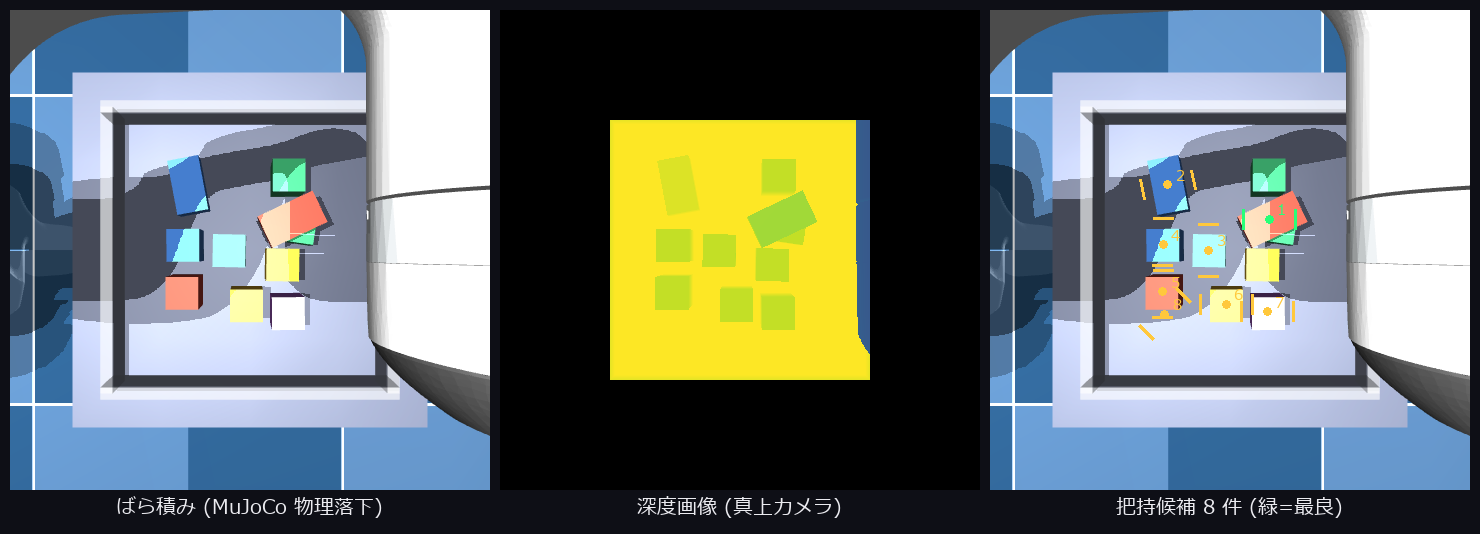
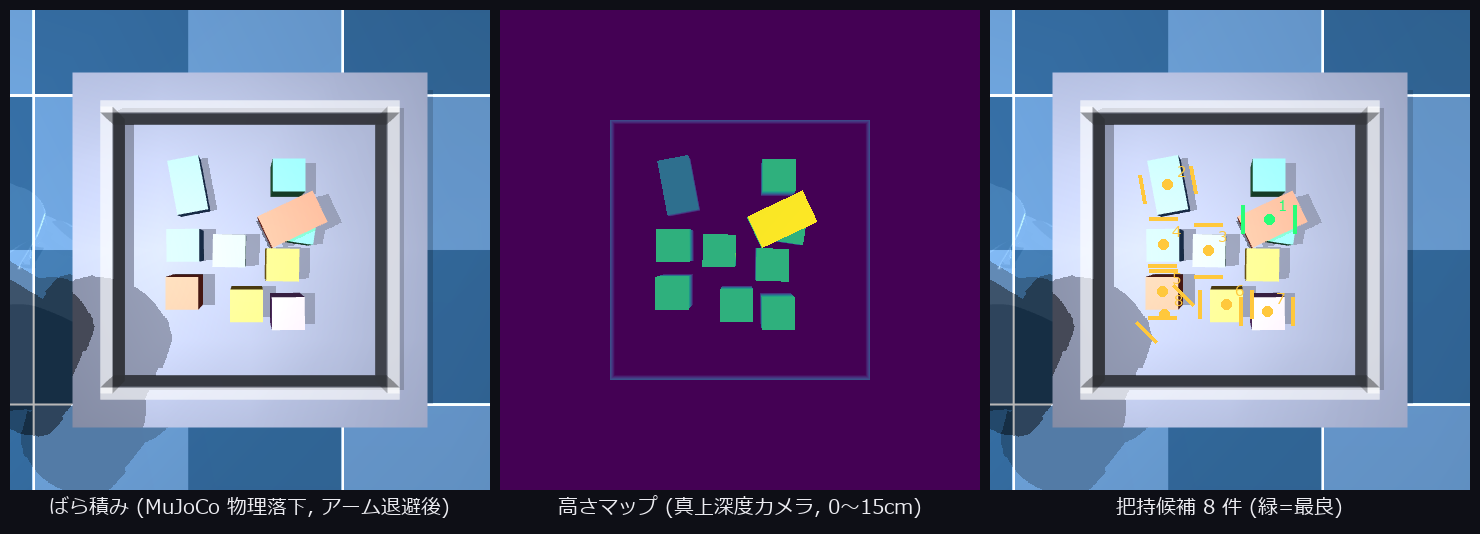
auto: gen_industrial_gallery.py 編集前 (2026-08-30 16:37)

diff --git a/tools/gen_industrial_gallery.py b/tools/gen_industrial_gallery.py
@@ -701,8 +701,8 @@ def subject_binpick_depth(log=print) -> dict:
     height = np.where(inner > 0.5, np.clip(d_table - depth, 0.0, 0.15) / 0.15,
                       0.0)
     panels = [rgb, fs.colorize_depth(height), _np_of(vis)]
-    out = _montage(panels, ["ばら積み (MuJoCo 物理落下)",
-                            "深度画像 (真上カメラ)",
+    out = _montage(panels, ["ばら積み (MuJoCo 物理落下, アーム退避後)",
+                            "高さマップ (真上深度カメラ, 0〜15cm)",
                             f"把持候補 {len(objs)} 件 (緑=最良)"], ncols=3)
     _save_png(out, "phai_binpick.png")
     _save_thumb("phai_binpick.png")
